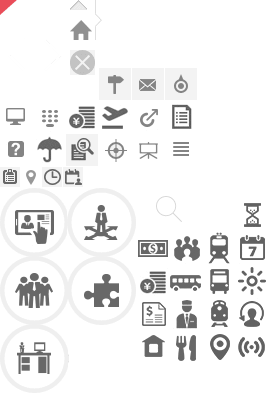
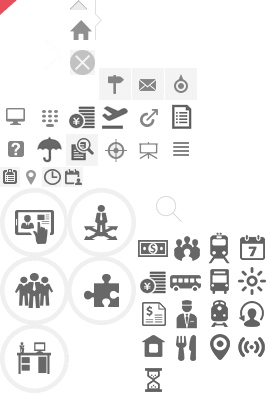
更换图标位置

diff --git a/20140529-jd-oa/page/css/style.css b/20140529-jd-oa/page/css/style.css
@@ -97,7 +97,7 @@
 .oa-public-ico6 { background-position: -236px -265px;}
 .oa-public-ico7 { background-position: -236px -298px;}
 .oa-public-ico8 { background-position: -236px -331px;}
-.oa-public-ico9 { background-position: -236px -199px;}
+.oa-public-ico9 { background-position: -137px -364px;}
 
 .oa-mod-navi .oa-mod-bd { padding: 25px 0 10px;}
 .oa-mod-navi .fn-left { width: 198px;text-align: center;}
